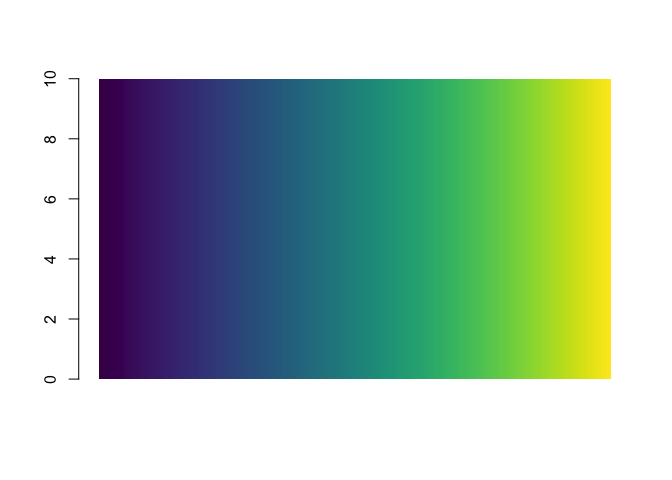
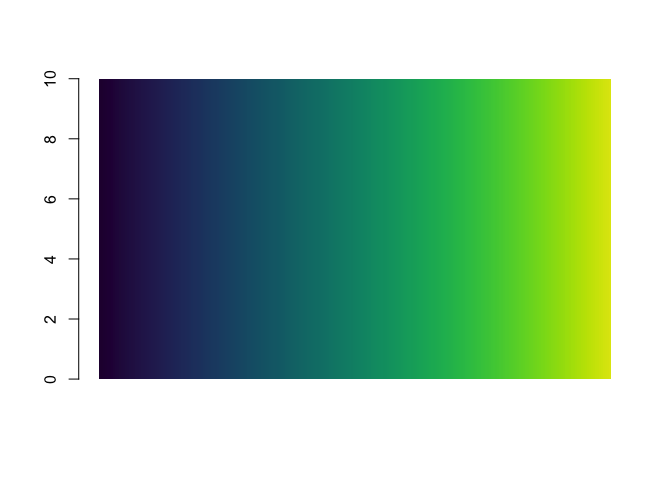
0 - 255 colour matrix

Changed region(s): [[0.1875, 0.1562, 0.4062, 0.8125], [0.7188, 0.1562, 0.9062, 0.8125], [0.4688, 0.1562, 0.6562, 0.8125]]

diff --git a/inst/include/RcppViridis/colours/colours.hpp b/inst/include/RcppViridis/colours/colours.hpp
@@ -17,11 +17,18 @@
 namespace rcppviridis {
 namespace colours {
 
+  // if palette is a string; it's using in-built palettes; nothing to do
+  // if palette is function or vectors, force rescaling
+
   void resolve_palette(
       Rcpp::NumericVector& red,
       Rcpp::NumericVector& green,
       Rcpp::NumericVector& blue ) {
 
+    // TODO(ensure in range [0,1])
+    rcppviridis::scale::rescale( red );
+    rcppviridis::scale::rescale( green );
+    rcppviridis::scale::rescale( blue );
   }
 
   void resolve_palette(
@@ -53,21 +60,20 @@ namespace colours {
     } else {
       Rcpp::stop("unknown palette");
     }
-
   }
 
-  Rcpp::StringVector colour_value_hex(
-    Rcpp::NumericVector x,
-    Rcpp::NumericVector red,
-    Rcpp::NumericVector green,
-    Rcpp::NumericVector blue,
-    std::string na_colour
+  Rcpp::StringVector colour_values_to_hex(
+      Rcpp::NumericVector x,
+      Rcpp::NumericVector red,
+      Rcpp::NumericVector green,
+      Rcpp::NumericVector blue,
+      std::string na_colour
   ) {
-
     int n = x.size();
     double colours = red.size();
 
-    Rcpp::NumericVector scaledVals = rcppviridis::scale::rescale(x);
+    //Rcpp::NumericVector scaledVals = rcppviridis::scale::rescale(x);
+    rcppviridis::scale::rescale(x);
     Rcpp::StringVector hex_strings(n);
     double step = 256 / colours;
 
@@ -82,7 +88,7 @@ namespace colours {
 
     for( i = 0; i < n; i ++ ) {
 
-      this_x = scaledVals[i] * 255;
+      this_x = x[i] * 255;
 
       if ( R_IsNA( this_x) || R_IsNaN( this_x ) ) {
         hex_strings[i] = na_colour;
@@ -94,6 +100,18 @@ namespace colours {
       }
     }
     return hex_strings;
+  }
+
+  // in this function the colour vectors will already be scaled [0,1]
+  Rcpp::StringVector colour_value_hex(
+    Rcpp::NumericVector x,
+    Rcpp::NumericVector red,
+    Rcpp::NumericVector green,
+    Rcpp::NumericVector blue,
+    std::string na_colour
+  ) {
+    resolve_palette( red, green, blue );
+    return colour_values_to_hex( x, red, green, blue, na_colour );
   }
 
   Rcpp::StringVector colour_value_hex(
@@ -115,9 +133,9 @@ namespace colours {
 
     resolve_palette( palette, red, green, blue );
 
-
     // TODO(index palettes on palette_sequence)
-    return colour_value_hex(x, red, green, blue, na_colour);
+
+    return colour_values_to_hex(x, red, green, blue, na_colour);
   }
 
   // Rcpp::StringVector colour_value_hex( Rcpp::StringVector x, Function palette, std::string na_colour ) {
@@ -147,9 +165,10 @@ namespace colours {
       Rcpp::NumericVector blue,
       std::string na_colour ) {
 
+    resolve_palette( red, green, blue );
     Rcpp::NumericVector out_nv = resolve_string_vector( x );
 
-    return colour_value_hex( out_nv, red, green, blue, na_colour );
+    return colour_values_to_hex( out_nv, red, green, blue, na_colour );
   }
 
   Rcpp::StringVector colour_value_hex(
@@ -172,10 +191,6 @@ namespace colours {
     resolve_palette( palette, red, green, blue );
 
     return colour_value_hex( x, red, green, blue, na_colour );
-
-    // Rcpp::NumericVector out_nv = resolve_string_vector( x );
-    //
-    // return colour_value_hex( out_nv, palette, na_colour );
   }
 
 } // namespace colours

diff --git a/inst/include/RcppViridis/scale/scale.hpp b/inst/include/RcppViridis/scale/scale.hpp
@@ -15,9 +15,9 @@ namespace scale {
 
 
   // Always rescales to (0, 1)
-  Rcpp::NumericVector rescale( Rcpp::NumericVector x ) {
+  void rescale( Rcpp::NumericVector& x ) {
     int n = x.size();
-    Rcpp::NumericVector rescaled(n);
+    //::NumericVector rescaled(n);
     Rcpp::NumericVector rng = range(x);
     Rcpp::NumericVector diff_from = Rcpp::diff(rng); // should only be one value!
 
@@ -27,9 +27,9 @@ namespace scale {
     double this_range = rng[0];
 
     for (i = 0; i < n; i++) {
-      rescaled[i] = (x[i] - this_range) * this_diff;
+      x[i] = (x[i] - this_range) * this_diff;
     }
-    return rescaled;
+    //return rescaled;
   }
 } // namespace scale
 } // namespace rcppviridis

diff --git a/README.md b/README.md
@@ -29,7 +29,7 @@ I wanted **one** function which will work on **one** argument.
 colour_values(1:5)
 # [1] "#440154" "#3B528B" "#21908C" "#5DC963" "#FDE725"
 colour_values(letters[1:5])
-# [1] "#440154" "#3B528B" "#21908C" "#5DC963" "#FDE725"
+# [1] "#26003C" "#1C5173" "#028F74" "#3EC74A" "#DFE60C"
 ```
 
 I also want it available at the `src` (C/C++) level for linking to other
@@ -156,9 +156,9 @@ m <- microbenchmark(
 )
 m
 # Unit: milliseconds
-#         expr      min       lq     mean   median        uq      max neval
-#  RcppViridis 305.0620 325.6746 579.6459 346.7598  696.9596 1529.404    25
-#       scales 618.0078 687.9432 983.3619 746.2501 1074.3857 2632.472    25
+#         expr     min       lq     mean   median       uq       max neval
+#  RcppViridis 289.901 314.9536 371.1635 331.3848 415.6811  527.2107    25
+#       scales 624.317 699.5991 781.9409 726.7011 803.3193 1271.7726    25
 
 autoplot(m)
 ```
@@ -184,9 +184,9 @@ m <- microbenchmark(
 )
 m
 # Unit: milliseconds
-#         expr      min       lq     mean    median        uq      max neval
-#  RcppViridis 409.3059 428.7086  615.074  447.2256  534.3492 2411.654    25
-#       scales 827.8212 868.1436 1197.380 1083.3522 1364.2112 2602.235    25
+#         expr      min       lq     mean   median       uq       max neval
+#  RcppViridis 317.4109 328.8033 348.2146 337.1124 353.5806  458.2732    25
+#       scales 614.4710 636.4315 730.5384 678.3475 786.4750 1130.5774    25
 
 autoplot(m)
 ```
